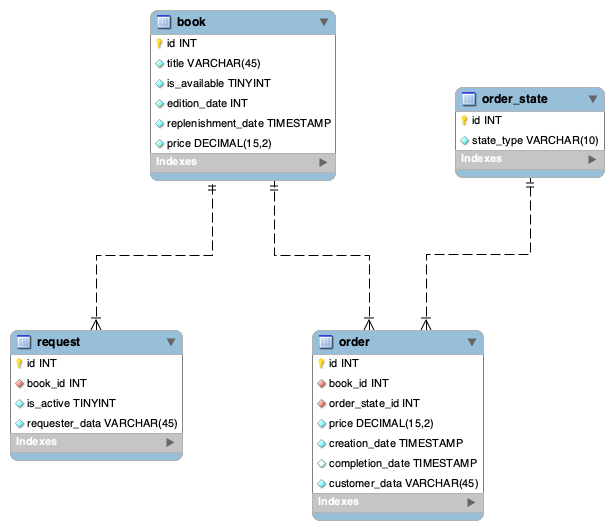
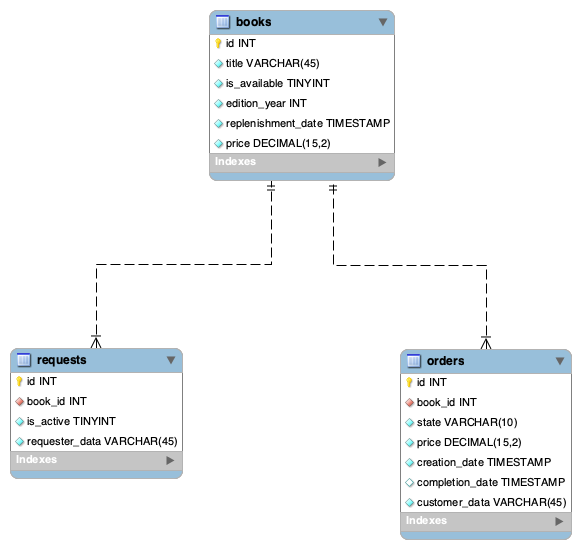
Delete order_states table.

diff --git a/src/com/senla/training/yeutukhovich/bookstore/dao/order/OrderDaoImpl.java b/src/com/senla/training/yeutukhovich/bookstore/dao/order/OrderDaoImpl.java
@@ -18,24 +18,22 @@ import java.util.Optional;
 @Singleton
 public class OrderDaoImpl extends AbstractEntityDao<Order> implements OrderDao {
 
-    private static final String FIND_ALL = "SELECT orders.id AS order_id, book_id, state_type," +
+    private static final String FIND_ALL = "SELECT orders.id AS order_id, book_id, state," +
             " orders.price AS current_price, creation_date, completion_date, customer_data, title, " +
             "is_available, edition_year, replenishment_date, books.price FROM orders " +
-            "JOIN books ON books.id=orders.book_id JOIN order_states ON orders.order_states_id=order_states.id;";
-    private static final String FIND_BY_ID = "SELECT orders.id AS order_id, book_id, state_type," +
+            "JOIN books ON books.id=orders.book_id;";
+    private static final String FIND_BY_ID = "SELECT orders.id AS order_id, book_id, state," +
             " orders.price AS current_price, creation_date, completion_date, customer_data, title, " +
             "is_available, edition_year, replenishment_date, books.price FROM orders " +
-            "JOIN books ON books.id=orders.book_id JOIN order_states ON orders.order_states_id=order_states.id " +
-            "WHERE orders.id=?;";
-    private static final String ADD_ORDER = "INSERT INTO orders (book_id, order_states_id, price, creation_date, " +
+            "JOIN books ON books.id=orders.book_id WHERE orders.id=?;";
+    private static final String ADD_ORDER = "INSERT INTO orders (book_id, state, price, creation_date, " +
             "customer_data) VALUES (?,?,?,?,?);";
-    private static final String UPDATE_ORDER = "UPDATE orders SET book_id=?, order_states_id=?, price=?, creation_date=?," +
+    private static final String UPDATE_ORDER = "UPDATE orders SET book_id=?, state=?, price=?, creation_date=?," +
             "completion_date=?, customer_data=? WHERE id=?";
-    private static final String FIND_COMPLETED_ORDERS_BETWEEN_DATES = "SELECT orders.id AS order_id, book_id, state_type, " +
+    private static final String FIND_COMPLETED_ORDERS_BETWEEN_DATES = "SELECT orders.id AS order_id, book_id, state, " +
             "orders.price AS current_price, creation_date, completion_date, customer_data, title, " +
             "is_available, edition_year, replenishment_date, books.price FROM orders " +
-            "JOIN books ON books.id=orders.book_id JOIN order_states ON orders.order_states_id=order_states.id " +
-            "WHERE order_states_id=3 AND (completion_date BETWEEN ? AND ?);";
+            "JOIN books ON books.id=orders.book_id WHERE state='COMPLETED' AND (completion_date BETWEEN ? AND ?);";
 
     @Override
     public List<Order> findCompletedOrdersBetweenDates(Connection connection, Date startDate, Date endDate) {
@@ -80,7 +78,7 @@ public class OrderDaoImpl extends AbstractEntityDao<Order> implements OrderDao {
         }
         Order order = new Order();
         order.setId(resultSet.getLong(Fields.ORDER_ID.getFieldName()));
-        order.setState(OrderState.valueOf(resultSet.getString(Fields.STATE_TYPE.getFieldName())));
+        order.setState(OrderState.valueOf(resultSet.getString(Fields.STATE.getFieldName())));
         order.setCurrentBookPrice(resultSet.getBigDecimal(Fields.CURRENT_PRICE.getFieldName()));
         order.setCreationDate(new Date(resultSet.getTimestamp(Fields.CREATION_DATE.getFieldName()).getTime()));
         Optional.ofNullable(resultSet.getTimestamp(Fields.COMPLETION_DATE.getFieldName()))
@@ -100,7 +98,7 @@ public class OrderDaoImpl extends AbstractEntityDao<Order> implements OrderDao {
     @Override
     protected void prepareInsert(PreparedStatement preparedStatement, Order entity) throws SQLException {
         preparedStatement.setLong(1, entity.getBook().getId());
-        preparedStatement.setInt(2, OrderState.CREATED.getIdNumber());
+        preparedStatement.setString(2, OrderState.CREATED.toString());
         preparedStatement.setBigDecimal(3, entity.getCurrentBookPrice());
         preparedStatement.setTimestamp(4, new Timestamp(entity.getCreationDate().getTime()));
         preparedStatement.setString(5, entity.getCustomerData());
@@ -109,7 +107,7 @@ public class OrderDaoImpl extends AbstractEntityDao<Order> implements OrderDao {
     @Override
     protected void prepareUpdate(PreparedStatement preparedStatement, Order entity) throws SQLException {
         preparedStatement.setLong(1, entity.getBook().getId());
-        preparedStatement.setInt(2, entity.getState().getIdNumber());
+        preparedStatement.setString(2, entity.getState().toString());
         preparedStatement.setBigDecimal(3, entity.getCurrentBookPrice());
         preparedStatement.setTimestamp(4, new Timestamp(entity.getCreationDate().getTime()));
         preparedStatement.setTimestamp(5,

diff --git a/src/com/senla/training/yeutukhovich/bookstore/dao/book/BookDaoImpl.java b/src/com/senla/training/yeutukhovich/bookstore/dao/book/BookDaoImpl.java
@@ -23,14 +23,14 @@ public class BookDaoImpl extends AbstractEntityDao<Book> implements BookDao {
     private static final String UPDATE_BOOK_BY_ID = "UPDATE books SET title=?, is_available=?, edition_year=?, price=? WHERE id=?;";
     private static final String FIND_SOLD_BOOKS_BETWEEN_DATES = "SELECT DISTINCT books.id AS book_id, title, is_available," +
             " edition_year, replenishment_date, books.price FROM orders JOIN books ON books.id=orders.book_id WHERE " +
-            "(completion_date BETWEEN ? AND ?) AND order_states_id=3;";
+            "(completion_date BETWEEN ? AND ?) AND state='COMPLETED';";
     private static final String FIND_UNSOLD_BOOKS_BETWEEN_DATES = "SELECT books.id AS book_id, title, is_available, " +
             "edition_year, replenishment_date, books.price FROM books WHERE books.id NOT IN (SELECT DISTINCT books.id FROM " +
-            "orders JOIN books ON books.id=orders.book_id WHERE (completion_date BETWEEN ? AND ?) AND order_states_id=3);";
+            "orders JOIN books ON books.id=orders.book_id WHERE (completion_date BETWEEN ? AND ?) AND state='COMPLETED');";
     private static final String FIND_STALE_BOOKS_BETWEEN_DATES = "SELECT books.id AS book_id, title, is_available, " +
             "edition_year, replenishment_date, books.price FROM books WHERE replenishment_date <= ?" +
             " AND books.id NOT IN (SELECT DISTINCT books.id FROM orders JOIN books ON books.id=orders.book_id WHERE " +
-            "(completion_date BETWEEN ? AND ?) AND order_states_id=3);";
+            "(completion_date BETWEEN ? AND ?) AND state='COMPLETED');";
 
     @Override
     public List<Book> findSoldBooksBetweenDates(Connection connection, Date startDate, Date endDate) {

diff --git a/src/com/senla/training/yeutukhovich/bookstore/domain/state/OrderState.java b/src/com/senla/training/yeutukhovich/bookstore/domain/state/OrderState.java
@@ -2,17 +2,7 @@ package com.senla.training.yeutukhovich.bookstore.domain.state;
 
 public enum OrderState {
 
-    CREATED(1),
-    CANCELED(2),
-    COMPLETED(3);
-
-    private int idNumber;
-
-    OrderState(int idNumber) {
-        this.idNumber = idNumber;
-    }
-
-    public int getIdNumber() {
-        return idNumber;
-    }
+    CREATED,
+    CANCELED,
+    COMPLETED
 }

diff --git a/src/com/senla/training/yeutukhovich/bookstore/util/constant/Fields.java b/src/com/senla/training/yeutukhovich/bookstore/util/constant/Fields.java
@@ -14,7 +14,7 @@ public enum Fields {
     CREATION_DATE("creation_date"),
     COMPLETION_DATE("completion_date"),
     CUSTOMER_DATA("customer_data"),
-    STATE_TYPE("state_type"),
+    STATE("state"),
     IS_ACTIVE("is_active"),
     REQUESTER_DATA("requester_data");
 
